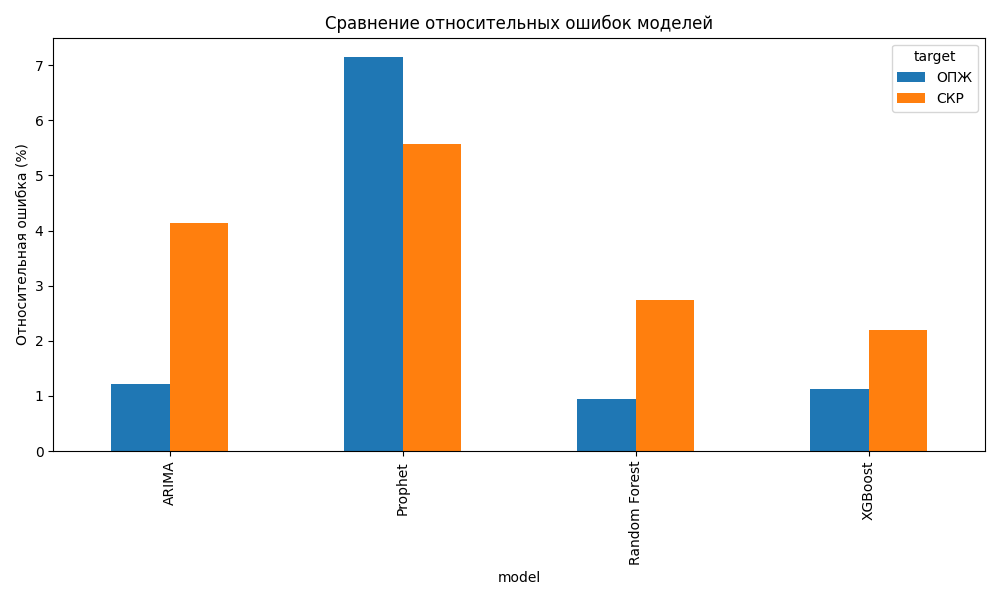
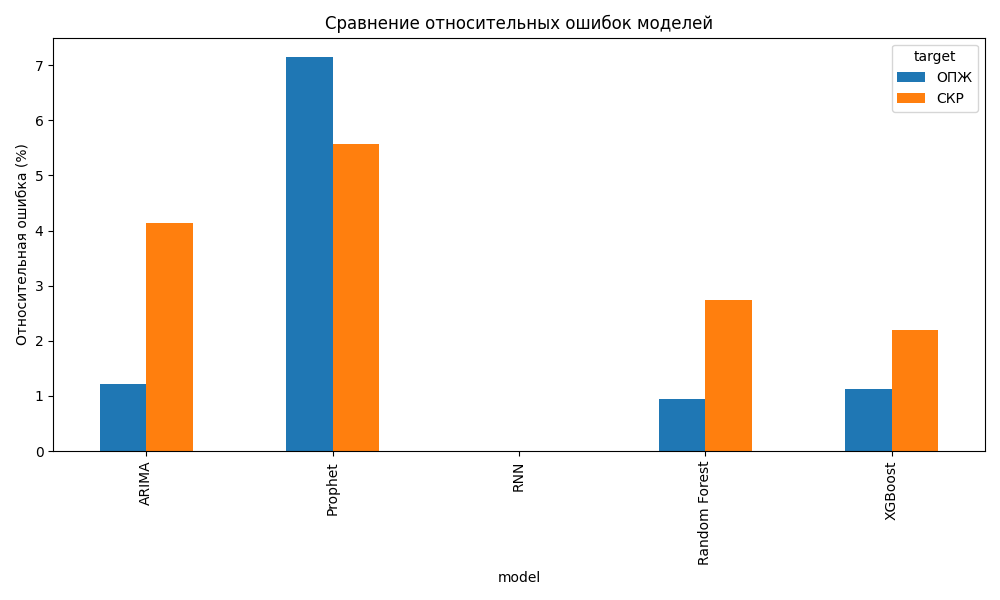
Auto update metrics [ci skip]

diff --git a/notebooks/Readme.md b/notebooks/Readme.md
@@ -131,6 +131,20 @@ R²: -0.1932
 JSON: {"RMSE": 0.6831684827920756, "MAE": 0.5864823301127474, "R2": 0.931124006433729, "mean": 72.43411764705881, "relative_error": 0.9431584244884023}
 ```
 
+## Модель: RNN — СКР
+```
+====================================================================================================
+File: ./notebooks/RNN/predictions_afr.xlsx
+Names standardize
+```
+
+## Модель: RNN — ОПЖ
+```
+====================================================================================================
+File: ./notebooks/RNN/predictions_ele.xlsx
+Names standardize
+```
+
 ## Модель: XGBoost — СКР
 ```
 ====================================================================================================
